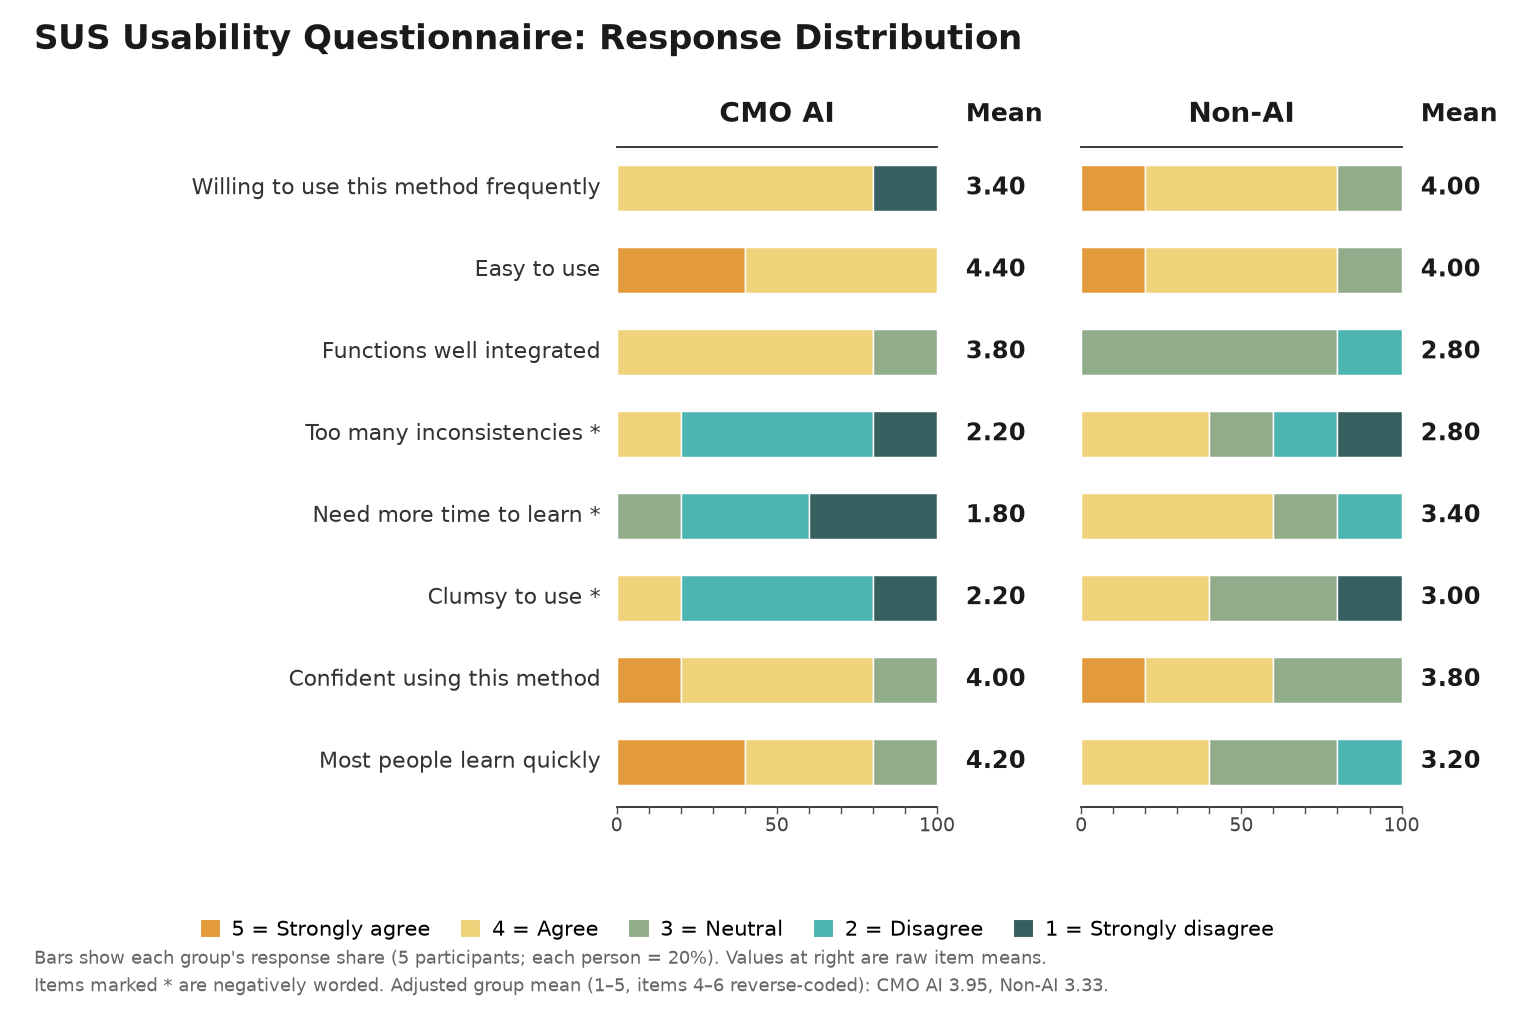
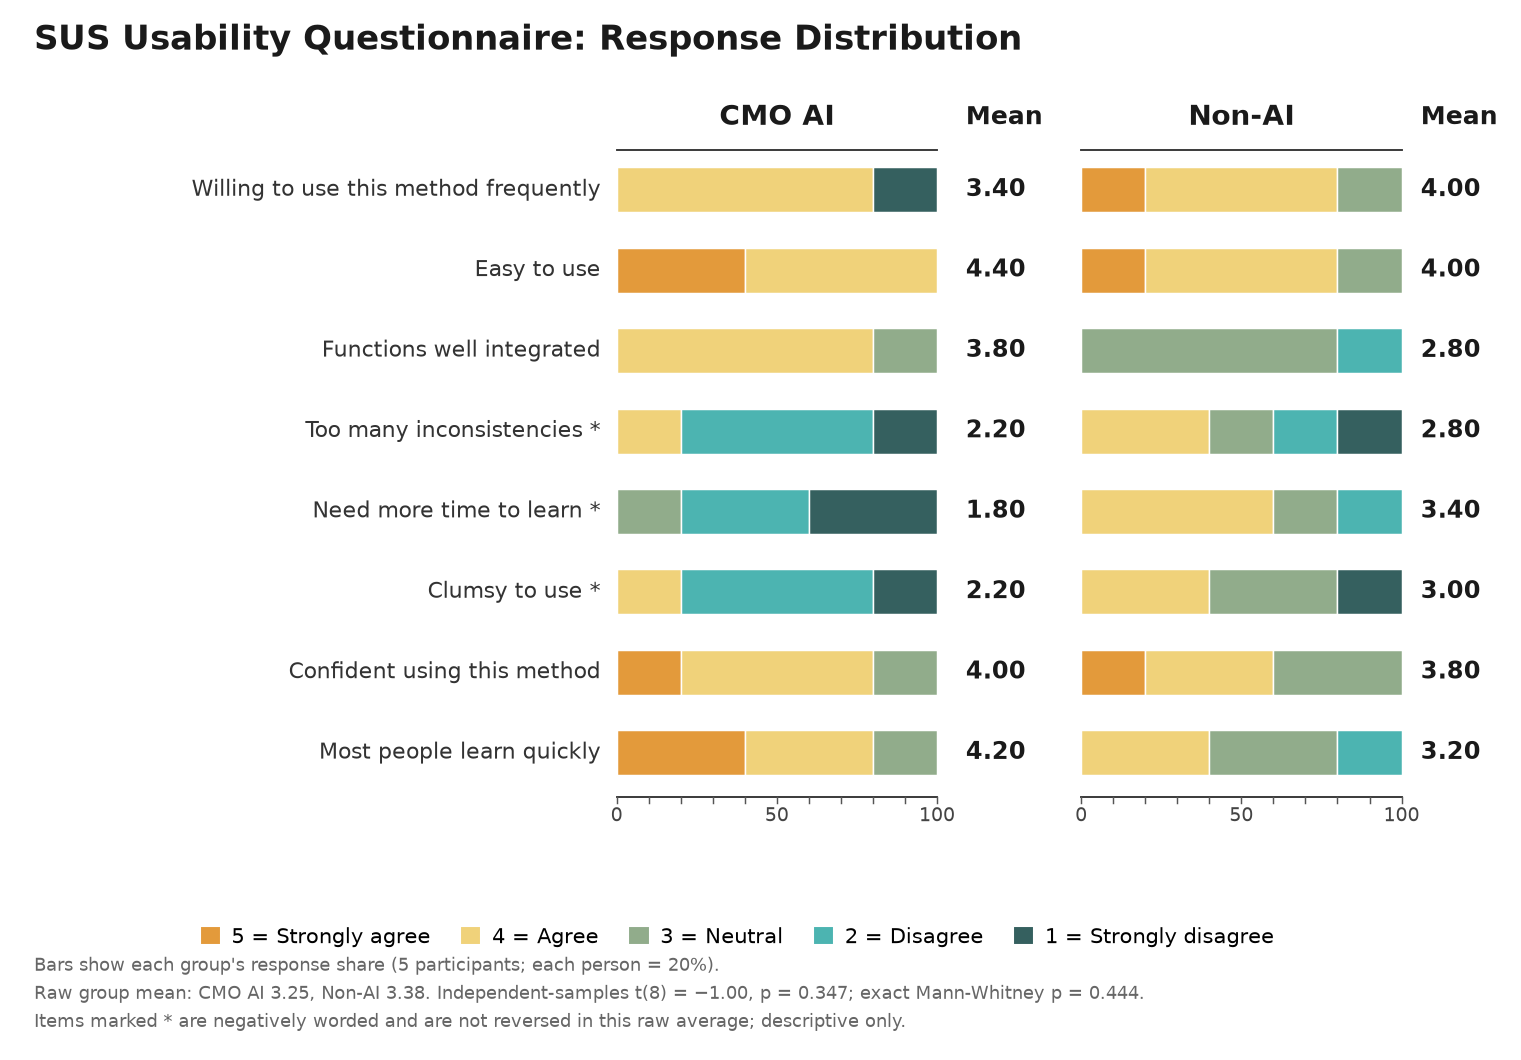
Report raw-score means with t tests and p values in Figures 2 and 3
Switch the SUS and workload summaries from reverse-coded adjusted means to raw item averages, add pooled independent-samples t tests (df = 8) with exact Mann-Whitney checks, and regenerate both figures so the captions match the new statistics.

diff --git a/index.html b/index.html
@@ -668,40 +668,51 @@
         <figure class="result-figure">
           <figcaption>Figure 2. Usability Ratings (SUS)</figcaption>
           <a class="result-chart" href="images/sus.png" target="_blank" rel="noopener">
-            <img class="result-chart-image" src="images/sus.png" width="1512" height="1024" loading="lazy"
-                 alt="Stacked bar chart showing SUS response distributions for the CMO AI and Non-AI groups across eight items, with item-level means.">
+            <img class="result-chart-image" src="images/sus.png" width="1521" height="1060" loading="lazy"
+                 alt="Stacked bar chart showing SUS response distributions for the CMO AI and Non-AI groups across eight items, with raw item-level means.">
           </a>
           <p class="result-explanation">
-            The CMO AI group recorded a higher adjusted mean usability rating
-            (<strong>3.95/5</strong>) than the Non-AI group
-            (<strong>3.33/5</strong>). This suggests a more positive perceived
-            user experience in the current AI sample.
+            Using the raw item scores, the CMO AI group averaged
+            <strong>3.25/5</strong> and the Non-AI group <strong>3.38/5</strong>,
+            a difference of −0.13. An independent-samples t test (pooled
+            variance, df = 8) gives
+            <strong>t(8) = −1.00, p = 0.347</strong> (exact Mann–Whitney
+            p = 0.444), so the difference is <strong>not statistically
+            significant</strong>. The AI group did not report clearly higher
+            usability than the Non-AI group on these raw scores.
           </p>
           <p class="result-caveat">
-            Measurement note: the uploaded questionnaire contains eight items,
-            rather than the standard ten-item SUS. Negatively worded items 4–6
-            were reverse-coded. The values are therefore reported as an
-            adjusted mean item rating, not as a standard SUS score out of 100.
+            Measurement note: the questionnaire has eight items rather than the
+            standard ten, and items 4–6 are negatively worded. The means above
+            keep the original responses (no reverse coding), so they are
+            descriptive only. With five participants per group, the test is
+            also low-powered.
           </p>
         </figure>
 
         <figure class="result-figure">
           <figcaption>Figure 3. Perceived Workload (Workload)</figcaption>
           <a class="result-chart" href="images/workload.png" target="_blank" rel="noopener">
-            <img class="result-chart-image" src="images/workload.png" width="1512" height="890" loading="lazy"
-                 alt="Stacked bar chart showing NASA-TLX workload rating distributions for the CMO AI and Non-AI groups across six dimensions, with dimension-level means.">
+            <img class="result-chart-image" src="images/workload.png" width="1521" height="926" loading="lazy"
+                 alt="Stacked bar chart showing NASA-TLX workload rating distributions for the CMO AI and Non-AI groups across six dimensions, with raw dimension-level means.">
           </a>
           <p class="result-explanation">
-            The adjusted mean workload rating was lower in the CMO AI group
-            (<strong>2.13/6</strong>) than in the Non-AI group
-            (<strong>3.83/6</strong>). This indicates that participants in the
-            AI group reported less perceived workload in the current sample.
+            With the raw six-dimension scores, the CMO AI group averaged
+            <strong>2.90/6</strong> and the Non-AI group <strong>4.33/6</strong>
+            (difference −1.43, 95% CI [−2.86, −0.01]). An independent-samples
+            t test with pooled variance gives
+            <strong>t(8) = −2.32, p = 0.049</strong>, so the difference is
+            <strong>statistically significant</strong> at the .05 level.
+            The exact Mann–Whitney test, however, gives p = 0.063 and does not
+            confirm it, so the finding should still be read as marginal.
           </p>
           <p class="result-caveat">
-            Calculation note: the questionnaire uses a six-point response
-            scale. The fifth item asks about success in achieving goals, so it
-            was reverse-coded (7 minus the original response) to make higher
-            composite values consistently represent greater workload.
+            Calculation note: all six dimensions use the same six-point scale
+            and are averaged as recorded, so the positive Performance item
+            points in the opposite direction. Excluding it, the five load
+            dimensions average <strong>2.32</strong> vs <strong>4.20</strong>
+            (t(8) = −2.35, p = 0.046; exact p = 0.040). With five participants
+            per group, treat this as a tentative signal.
           </p>
         </figure>
 
